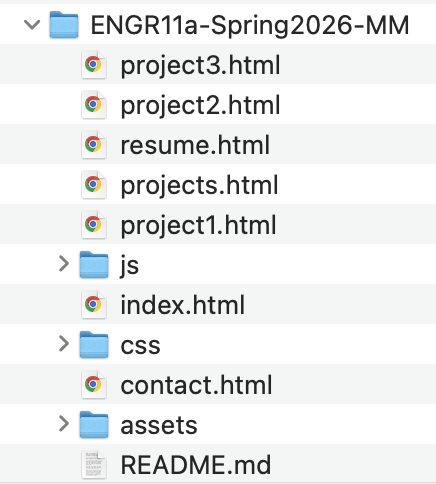
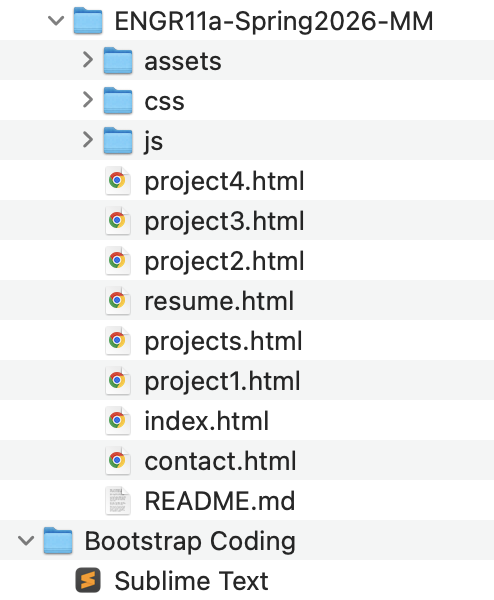
project 4 update 2

diff --git a/project4.html b/project4.html
@@ -75,29 +75,24 @@
                 <div class="col-lg-10 mx-auto" style="text-align: justify;">
                     <p>
                     This website was a project in itself! The process was a bit bumpy in terms of understanding a new coding language and getting the website up and running with GitHub. However, I am happy with the result, and will keep updating and building on what the template has to offer! <br><br>
+
+                    The images below show my file organization and how I sync my coding changes to my working website. In my files, I mostly use the .html files and the folder named "assets" (which is where I store my images). I edit code on Sublime Text. When I make edits, I make sure to into my GitHub Desktop app and "commit" my changes and "push origin", as seen is the screenshot below. This updates my public website! <br><br>
+
+                    Throughout the process, I learned a lot through searching online and using AI to answer my questions. Getting hands on experience is great!
                         
                     </p>
                 </div>
             </div>
 
             <!-- IMAGE ROW 1 -->
-            <div class="row mb-5">
-                <div class="col-md-7">
+            <div class="row mb-4">
+                <div class="col-md-4">
                     <img src="assets/folderorganization.png" class="img-fluid rounded mb-3" alt="Image 1">
                 </div>
-                <div class="col-md-4">
-                    <img src="assets/namepic4.png" class="img-fluid rounded mb-3" alt="Image 2">
+                <div class="col-md-8">
+                    <img src="assets/githubss.png" class="img-fluid rounded mb-3" alt="Image 2">
                 </div>
                 
-            </div>
-
-            <div class="row mb-5">
-                <div class="col-md-5">
-                    <img src="assets/namepic1.png" class="img-fluid rounded mb-3" alt="Image 3">
-                </div>
-                <div class="col-md-5">
-                    <img src="assets/namepic2.png" class="img-fluid rounded mb-3" alt="Image 3">
-                </div>
             </div>
 
 
